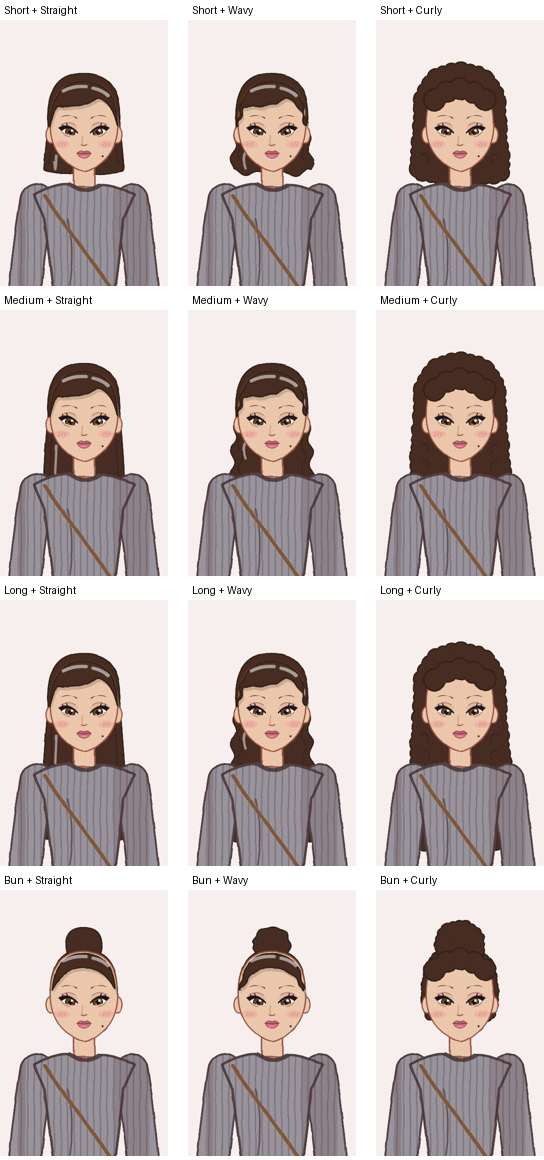
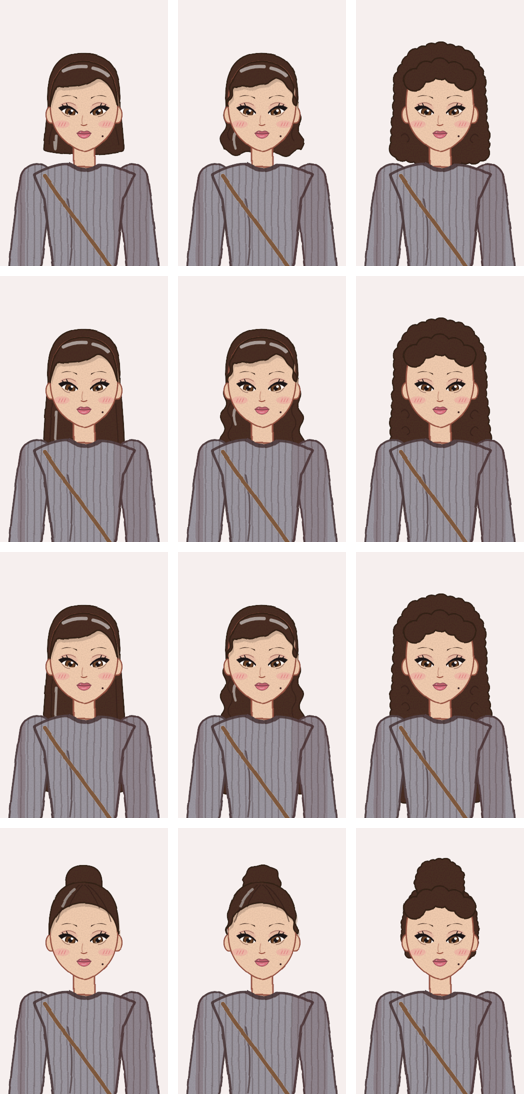
Cover the crown on bun hairstyles
The swept-back hair for buns now covers the whole top of the head with a
lower, softer hairline, and the headband-like shine is replaced with
strands pulled up toward the bun.

Claude-Session: https://claude.ai/code/session_01Y1QxQQv3fxpvhtww3BF6KX

diff --git a/src/doll/hair.ts b/src/doll/hair.ts
@@ -46,7 +46,8 @@ const BUN_KNOT = outline([93, 24], [[[93, 7], [110, 7]], [[127, 7], [127, 24]], 
 
 /** Bangs for each style. The bun has hair swept back instead. */
 const BANGS = outline([78, 72], [[[78, 30], [110, 30]], [[142, 30], [142, 72]], [[138, 50], [124, 45]], [[106, 57], [84, 53]], [[80, 61], [78, 72]]]);
-const SWEPT_BACK = outline([80, 66], [[[82, 32], [110, 32]], [[138, 32], [140, 66]], [[130, 45], [110, 45]], [[90, 45], [80, 66]]]);
+// Covers the whole crown (the face reaches y=30) with a soft hairline lower on the forehead.
+const SWEPT_BACK = outline([77, 72], [[[75, 23], [110, 23]], [[145, 23], [143, 72]], [[140, 52], [126, 46]], [[110, 39], [94, 46]], [[80, 52], [77, 72]]]);
 
 /** Resamples a closed outline so its points are about `spacing` apart. */
 function resample(pts: Pt[], spacing: number): Pt[] {
@@ -228,6 +229,12 @@ export function hairFront(style: HairStyle, texture: HairTexture, color: string)
   }
   const pts = style === 'bun' ? SWEPT_BACK : BANGS;
   const shape = texture === 'wavy' ? wave(pts, 1.4, 16, 44) : resample(pts, 4);
+  if (style === 'bun') {
+    // Strands pulled up from the hairline toward the bun, with a small shine on the crown.
+    const strands = `<path d="M84 60 Q90 38 106 26 M95 47 Q100 34 109 26 M136 60 Q130 38 114 26 M125 47 Q120 34 111 26" fill="none" stroke="${shade(color, -0.35)}" stroke-width="1" stroke-linecap="round" opacity=".6"/>`;
+    const crownShine = '<path d="M89 46 Q93 36 101 30" fill="none" stroke="#fff" stroke-width="2.4" stroke-linecap="round" opacity=".45"/>';
+    return `<path d="${smoothPath(shape)}" ${attrs}/>${strands}${crownShine}`;
+  }
   const shine = '<path d="M90 39 Q100 34 112 35 M119 36 Q128 38 133 43" fill="none" stroke="#fff" stroke-width="3.2" stroke-linecap="round" opacity=".55"/>';
   return `<path d="${smoothPath(shape)}" ${attrs}/>${shine}`;
 }
